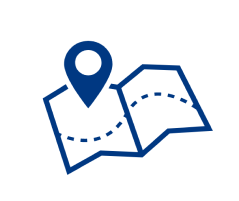
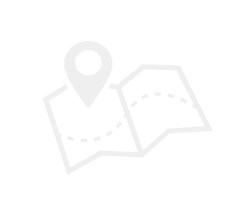
3rd commit

Changed region(s): [[0.1757, 0.1791, 0.9079, 0.8657], [0.6444, 0.4478, 0.6736, 0.4776]]

diff --git a/Templates/utama.html b/Templates/utama.html
@@ -55,9 +55,9 @@
         .card1 {
             position: relative;
             text-align: center;
-            margin-left: 0;
-            margin-right: 0;
-            margin-top: 100px; /* Push content down so it's not hidden under the header */
+            margin-top: 100px; 
+            margin-left: -13px;
+            margin-right: -10px;
         }
 
         .bg1 {
@@ -113,29 +113,140 @@
         }
 
         .pemetaan-sma {
-            position: relative; /* Parent element should be relative */
+            position: relative; 
             width: 15%;
-            margin: 0 auto; /* Center the container if needed */
+            margin: 0 auto; 
         }
 
         .logo1 {
-            position: absolute; /* Absolute positioning */
-            top: 0; /* Adjust this value to move up or down */
-            left: 50%; /* Center horizontally */
-            transform: translate(-50%, 0); /* Center alignment */
+            margin-top: 100px;
+            margin-left: -250px;
+            position: absolute; 
+            top: 0; 
+            left: 50%; 
+            transform: translate(-50%, 0); 
         }
 
         .logo2 {
-            position: absolute; /* Absolute positioning */
-            top: 30%; /* Adjust this value to move up or down */
-            left: 50%; /* Center horizontally */
-            transform: translate(-50%, 0); /* Center alignment */
+            margin-top: 100px;
+            margin-left: -250px;
+            position: absolute; 
+            top: 30%; 
+            left: 50%; 
+            transform: translate(-50%, 0); 
+        }
+
+        .logo3 {
+            margin-top: 200px;
+            margin-left: 250px;
+            position: absolute; 
+            top: 0; 
+            left: 50%; 
+            transform: translate(-50%, 0); 
+        }
+
+        .logo4 {
+            margin-top: 200px;
+            margin-left: 250px;
+            position: absolute; 
+            top: 30%; 
+            left: 50%; 
+            transform: translate(-50%, 0); 
+        }
+
+        .text-card2 {
+            font-weight: 450;
+            font-size: 40px;
+            margin-right: 500px;
+            margin-top: 350px;
+            color: #ffff;
+            text-align: center;
+            text-decoration: none;
+        }
+
+        .text-card3 {
+            font-weight: 450;
+            font-size: 40px;
+            margin-right: -500px;
+            margin-top: -115px;
+            color: #ffff;
+            text-align: center;
+            text-decoration: none;
         }
 
         .garis1 {
             margin-top: 100px;
         }
-       
+
+        .card3 h1 {
+            margin-top: 100px;
+            font-size: 70px;
+            text-align: center;
+            color: #ffff;
+        }
+
+        .garis2 {
+            display: block; 
+            margin: 20px auto 0; 
+            max-width: 100%; 
+        }
+
+        .card4 {
+            width: 100vw; /* Full width of the viewport */
+            height: 800px;
+            width: 100%;
+            background-color: #ffff;
+            text-align: center; 
+        }
+
+        .txt-card4{
+            text-align: center;
+            color: #004DD1;
+            font-size: 70px;
+        }
+        
+        .garis-card4 {
+            display: block; 
+            margin: -50px auto 0; 
+            max-width: 100%; 
+        }
+
+        .berita1 {
+            width: 700px; /* Set the desired width of the card */
+            height: auto; /* Adjust height based on content, or set a fixed height if needed */
+            margin-right: 600px;
+            margin-top: 50px;
+            display: inline-block;
+            box-shadow: 0 4px 8px 0 rgba(0, 0, 0, 0.2);
+            transition: 0.3s;
+            border-radius: 15px;
+            text-align: center;
+        }
+
+        .berita1:hover {
+            box-shadow: 0 8px 16px 0 rgba(0, 0, 0, 0.2);
+        }
+
+        .berita1 img {
+            width: 100%; /* Ensures the image fills the width of the card */
+            height: auto; /* Keeps the aspect ratio of the image */
+        }
+
+        .berita1 p {
+            font-size: 25px;
+            text-align: left; /* Align paragraph text to the left */
+            margin: 10px 0; /* Add margin for spacing */
+        }
+
+        .baca-selengkapnya {
+            color: gray;
+            margin-bottom: 20px;
+            display: block;
+            text-decoration: none;
+            text-align: left;
+        }
+
+
     </style>
 </head>
 <body>
@@ -158,15 +269,46 @@
     <div class="card2">
         <h1 class="txtimg3">LAYANAN</h1>
         <img src="{{ url_for('static', filename='garis.png') }}" class="garis1">
-        <!-- <div class="pemetaan-sma">
-            <img src="{{ url_for('static', filename='lingkaran putih.png') }}" class="logo1">
+        <div class="pemetaan-sma">
+            <img src="{{ url_for('static', filename='bgpoint.png') }}" class="logo1">
             <img src="{{ url_for('static', filename='sma.png') }}" class="logo2">
-        </div>      -->
+        </div>
+        <div class="akreditasi-sma">
+            <img src="{{ url_for('static', filename='bgpoint.png') }}" class="logo3">
+            <img src="{{ url_for('static', filename='akreditasi.png') }}" class="logo4">
+        </div>
     </div>
 
+    <a href="webgis">
+        <h2 class="text-card2">Pemetaan <br> SMA</h2>
+    </a>
+
+    <a href="">
+        <h2 class="text-card3">Akreditasi <br> SMA</h2>
+    </a>
+    
     <div class="card3">
-        
+        <h1>INFOGRAFIS</h1>
+        <img src="{{ url_for('static', filename='garis.png') }}" class="garis2">
     </div>
 
+    <div class="card4">
+        <h1 class="txt-card4">BERITA</h1>
+        <img src="{{ url_for('static', filename='garis2.png') }}" class="garis-card4">
+
+        <div class="berita1">
+            <img src="{{ url_for('static', filename='berita1.png') }}">
+            <p>Polisi ingatkan pelajar di Bandung ancaman nyata kejahatan siber</p>
+            <a href="https://www.detik.com/jabar/hukum-dan-kriminal/d-6634806/polisi-ingatkan-pelajar-di-bandung-ancaman-nyata-kejahatan-siber" class="baca-selengkapnya">BACA SELENGKAPNYA</a> 
+        </div>
+
+        <div class="berita2">
+            <img src="{{ url_for('static', filename='berita2.png') }}">
+        </div>
+    </div>
+
+    <footer>
+
+    </footer>
 </body>
 </html>

diff --git a/tempCodeRunnerFile.py b/tempCodeRunnerFile.py
@@ -1,0 +1,13 @@
+from flask import Flask
+from Controllers.utama import utama_bp
+from Controllers.daftarsekolah import daftarsekolah_bp
+from Controllers.webgis import webgis_bp
+
+app = Flask(__name__, template_folder='Templates', static_folder='Images')
+
+app.register_blueprint(utama_bp)
+app.register_blueprint(daftarsekolah_bp)
+app.register_blueprint(webgis_bp)
+
+if __name__ == '__main__':
+    app.run(debug=True)
